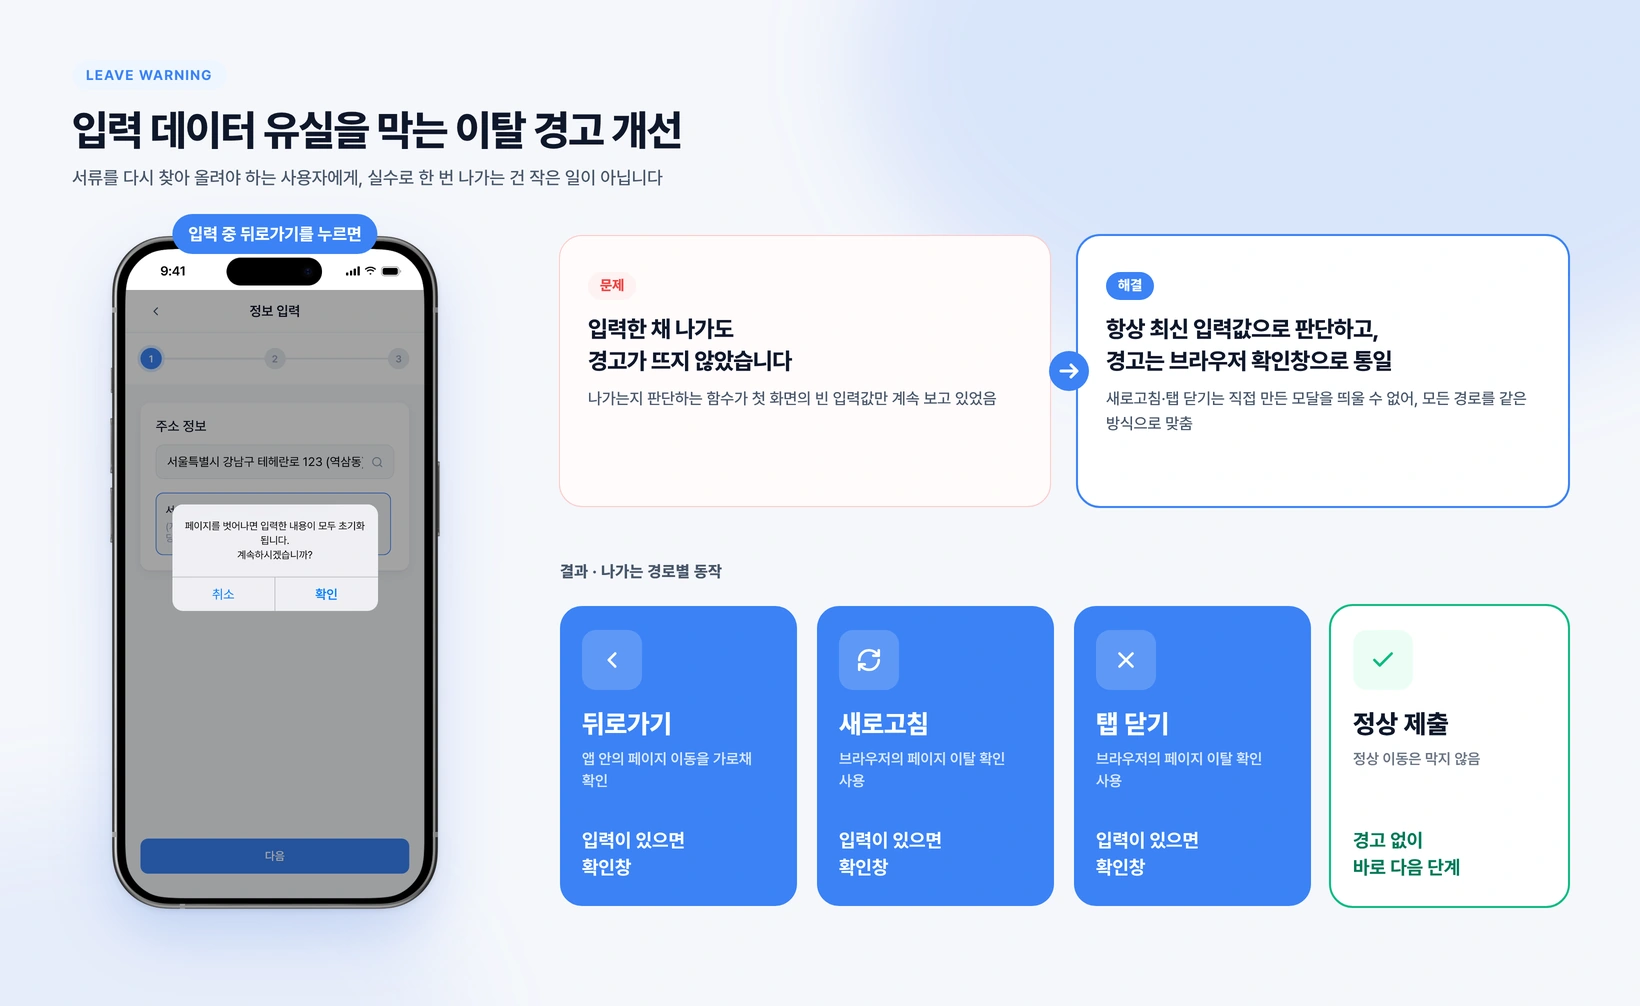
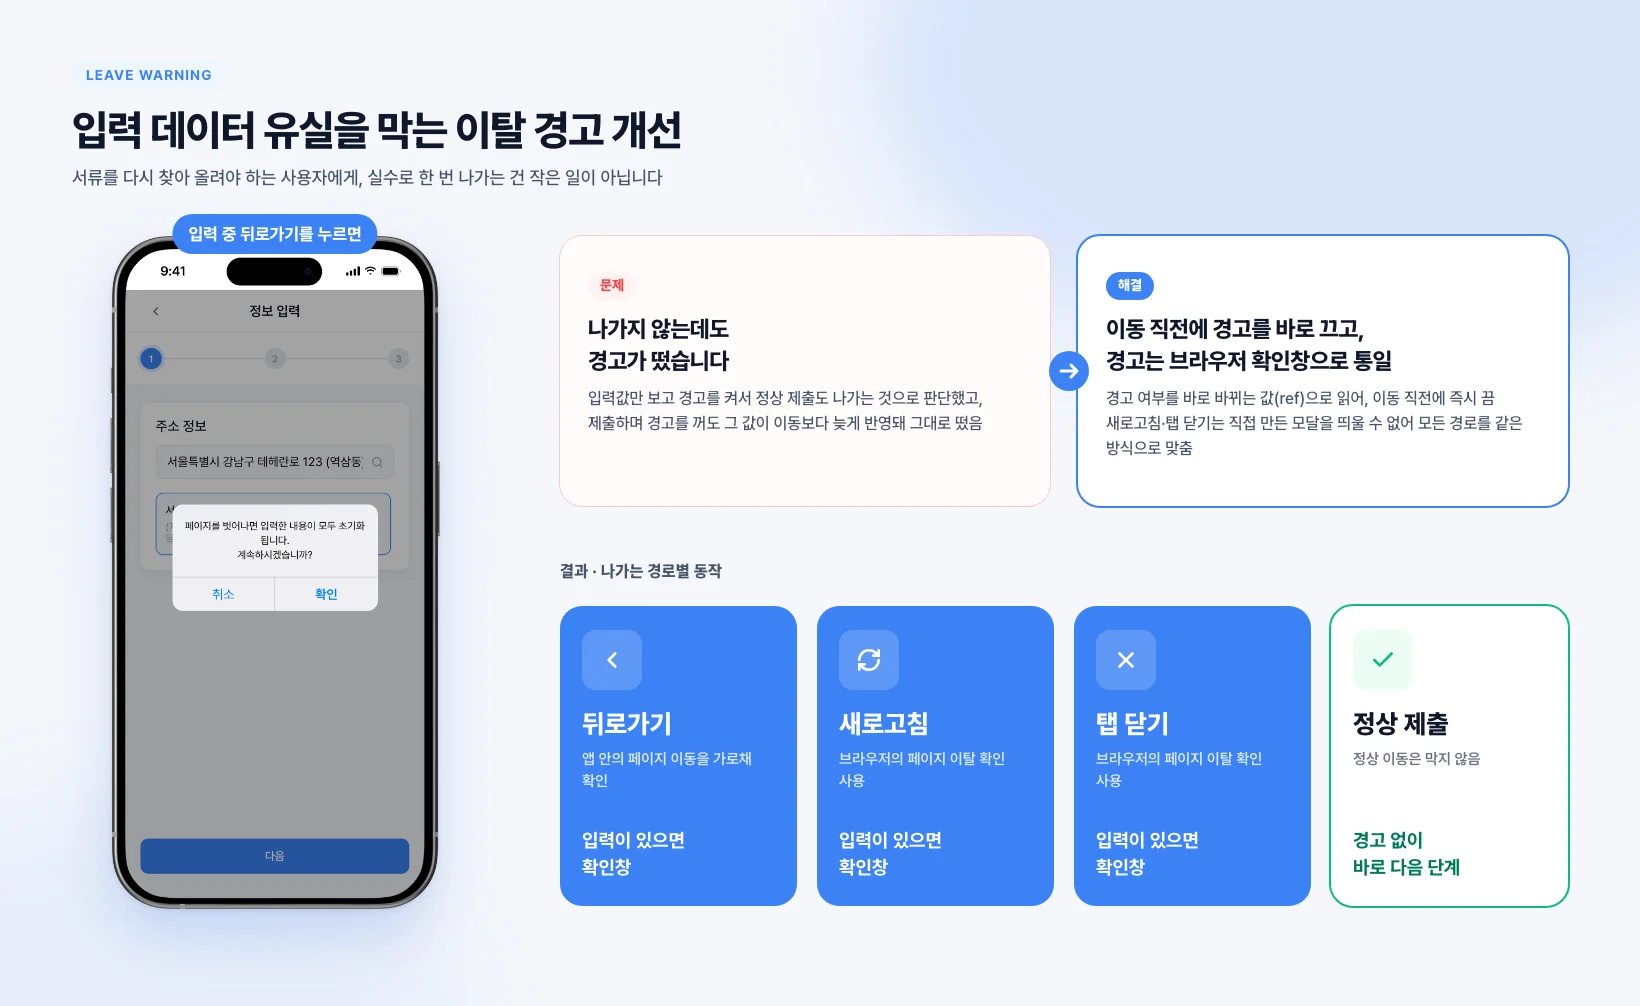
docs: 프로젝트 서술과 이미지를 실제 커밋·재현 결과 기준으로 정정
* 이탈 경고를 정상 제출까지 막던 문제와 state 반영 전 이동(stale closure), ref 해결로 다시 서술
* z-index 중복 요청 원인을 포커스 버블링으로 바로잡고, 첫 수정의 터미널 입력 회귀와 보완 과정 추가
* 지켜줘홈즈 CI 단계, Web OS 테마 이름, 테스트 예시 문구를 레포 기준으로 수정
* exit·zindex·test 이미지 속 설명 문구를 같은 기준으로 교체

diff --git a/content/projects.ts b/content/projects.ts
@@ -57,14 +57,15 @@ export const projects: Project[] = [
         },
         {
           index: 2,
-          title: '나가도 아무 말 없던 페이지',
+          title: '나가지 않는데도 뜨던 경고',
           blocks: [
-            { label: '발견', text: 'E2E 테스트를 쓰다가, 내용을 입력한 채 페이지를 나가도 "작성 내용이 사라진다"는 경고가 뜨지 않는 걸 발견했습니다.' },
-            { label: '원인', text: '이탈을 판단하는 콜백이 첫 렌더링 때의 빈 입력값(초기값)을 계속 참조하고 있었습니다(stale closure). 그래서 값이 바뀌어도 계속 "입력 없음"으로 판단했습니다.' },
-            { label: '판단', text: 'ref로 최신 입력 상태를 동기화해, 콜백이 항상 최신 값을 참조하도록 고쳤습니다. 경고는 처음에 직접 만든 모달로 띄우려 했지만, 새로고침과 탭 닫기는 브라우저 정책상 직접 만든 모달을 띄울 수 없었습니다. 경로마다 직접 만든 모달과 브라우저 창이 섞여 뜨는 것보다 일관된 게 낫다고 보고, 뒤로가기(useBlocker)까지 모든 이탈 경로를 브라우저 기본 확인창 계열로 맞췄습니다.' },
+            { label: '발견', text: 'E2E 테스트를 쓰다가, "작성 내용이 사라진다"는 이탈 경고가 정상 제출(분석 시작)할 때도 떠서 흐름을 막는 걸 발견했습니다. 주소로 바로 들어온 경우에는 이전 버튼을 누르면 앱의 경고 대신 브라우저의 "사이트에서 나가시겠습니까?" 창이 떴습니다.' },
+            { label: '원인', text: '처음 구현은 입력값만 보고 경고를 켰기 때문에 정상 제출도 이탈로 판단했습니다. 그래서 제출 버튼을 누르면 state를 바꿔 경고를 끄도록 고쳤지만, state는 다음 렌더에서야 반영돼 이동하는 순간 경고 여부를 판단하는 함수는 이전 렌더에서 만든 것이라 "경고 켜짐" 값을 그대로 들고 있었습니다(stale closure). 이전 버튼은 navigate(-1)이라, 주소로 바로 들어오면 앱 밖으로 나가며 브라우저 경고가 떴습니다.' },
+            { label: '해결', text: '경고 여부를 판단할 때 state 대신 ref를 읽게 하고, 정상 이동 직전에 ref를 바로 false로 바꿔 렌더를 기다리지 않고 경고를 끄도록 했습니다. 이전 버튼은 이동할 경로를 직접 지정해, 어디서 들어왔든 같은 앱 경고가 뜨게 했습니다.' },
+            { label: '판단', text: '경고는 처음에 직접 만든 모달로 띄울 수도 있었지만, 새로고침과 탭 닫기는 브라우저 정책상 직접 만든 모달을 띄울 수 없었습니다. 경로마다 직접 만든 모달과 브라우저 창이 섞여 뜨는 것보다 일관된 게 낫다고 보고, 뒤로가기(useBlocker)까지 모든 이탈 경로를 브라우저 기본 확인창 계열로 맞췄습니다.' },
             { label: '결과', text: '뒤로가기·새로고침·탭 닫기 세 경로 모두 입력이 있을 때만 경고하고, 정상 제출할 때는 뜨지 않는 것까지 테스트로 확인했습니다.' },
           ],
-          image: [{ src: '/images/projects/jikyeojwo-homes/exit.webp', alt: '뒤로가기, 새로고침, 탭 닫기 등 이탈 경로마다 입력 내용이 있을 때만 경고창이 뜨는 동작', width: 1640, height: 1006 }],
+          image: [{ src: '/images/projects/jikyeojwo-homes/exit.webp', alt: '정상 제출에도 뜨던 이탈 경고를 고쳐, 뒤로가기·새로고침·탭 닫기는 입력이 있을 때만 경고하고 정상 제출은 막지 않게 바뀐 동작', width: 1640, height: 1006 }],
           callout: '서류를 다시 찾아 올려야 하는 사용자에게, 실수로 한 번 나가는 건 작은 일이 아닙니다.',
         },
         {
@@ -83,7 +84,7 @@ export const projects: Project[] = [
           title: '사용자 밖의 흐름: 팀의 배포',
           blocks: [
             { label: '문제', text: '세 명이 한 저장소에 계속 머지하는 구조라, 검증 없이 머지하면 타입 오류나 린트 문제가 main에 그대로 들어갈 수 있었습니다. 배포를 손으로 하면 빠뜨리거나 잘못된 브랜치를 올릴 위험도 있었습니다. 배포 플랫폼으로 먼저 검토한 Vercel은 조직 저장소에서 유료 플랜 없이 쓸 수 없었습니다.' },
-            { label: '판단', text: '개발을 시작하면서 PR 검증과 배포 워크플로를 나눠 만들었습니다. PR에서는 타입 체크·린트·단위 테스트를 돌리고, 이를 통과해야만 머지되도록 막았습니다. 배포는 S3 + CloudFront로 직접 구성했습니다.' },
+            { label: '판단', text: '개발을 시작하면서 PR 검증과 배포 워크플로를 나눠 만들었습니다. PR에서는 린트·포맷 검사·타입 체크와 빌드를 돌리고, 이를 통과해야만 머지되도록 막았습니다. 배포는 S3 + CloudFront로 직접 구성했습니다.' },
             { label: '결과', text: ['프로젝트 기간 동안 ', { strong: 'CI 152회 중 21회' }, '를 머지 전에 막았습니다. main에 머지하면 빌드, S3 업로드, CloudFront 캐시 무효화까지 자동으로 이어집니다.'] },
           ],
           image: [{ src: '/images/projects/jikyeojwo-homes/cicd.webp', alt: 'PR 검증(ESLint·Prettier·타입체크)을 통과해야 머지되고, 머지 시 빌드·S3 업로드·CloudFront 캐시 무효화까지 자동으로 이어지는 CI/CD 파이프라인', width: 1640, height: 1006 }],
@@ -276,7 +277,7 @@ export const projects: Project[] = [
           title: '제어판에서 바꾸면 바로 바뀌는 테마',
           paragraphs: [
             '제어판에서 테마를 바꾸면 앱 전체 색이 즉시 바뀌어야 했습니다.',
-            '사용자 스토어의 테마 상태가 바뀌면 새 테마 객체를 앱 최상단에 주입하는 구조를 만들고, 컴포넌트에 직접 적혀 있던 색상을 모두 테마 값 참조로 바꿨습니다. 기본·다크·카카오 3종 테마를 제어판 설정과 연결했고, 이후에 만드는 컴포넌트도 따로 신경 쓰지 않아도 테마가 자동으로 적용됩니다.',
+            '사용자 스토어의 테마 상태가 바뀌면 새 테마 객체를 앱 최상단에 주입하는 구조를 만들고, 컴포넌트에 직접 적혀 있던 색상을 모두 테마 값 참조로 바꿨습니다. 카카오·네이버·토스 3종 테마를 제어판 설정과 연결했고, 이후에 만드는 컴포넌트도 따로 신경 쓰지 않아도 테마가 자동으로 적용됩니다.',
           ],
           image: [{ src: '/images/projects/web-os-emulator/theme.webp', alt: '제어판에서 카카오·네이버·토스 3종 테마를 선택하면 앱 전체 색상이 즉시 바뀌는 화면', width: 1640, height: 1006 }],
         },
@@ -298,10 +299,11 @@ export const projects: Project[] = [
           title: '한 번 눌렀는데 두 칸 올라가던 창',
           blocks: [
             { label: '발견', text: '본격적인 리팩토링 전에 기존 기능이 의도대로 동작하는지 개발자 도구로 소켓 이벤트 흐름을 확인했습니다. 그 과정에서 창을 한 번 클릭했는데 포커스 요청 이벤트가 두 번 발생하는 걸 발견했습니다.' },
-            { label: '원인', text: '서버는 포커스 요청을 받을 때마다 창의 z-index를 1씩 올리는 구조였습니다. 그런데 포커스 처리 함수 안에서 같은 요청을 한 번 더 보내는 콜백이 다시 호출되고 있었습니다. 겉으로는 정상처럼 보였지만, 창을 한 번 클릭할 때마다 z-index가 2씩 올라가는 숨은 버그였습니다.' },
-            { label: '결과', text: ['중복 호출을 지워 클릭 한 번에 요청이 한 번만 가도록 고쳤고, z-index는 ', { strong: '1씩만' }, ' 오르게 됐습니다. 창을 여러 개 쓸 때도 포커스 순서가 의도대로 유지됩니다.'] },
+            { label: '원인', text: '서버는 포커스 요청을 받을 때마다 창의 z-index를 1씩 올리는 구조였습니다. 창을 누르면 창에 포커스가 가서 요청이 한 번 나가는데, 터미널 창은 그 순간 안쪽 입력창으로 포커스를 옮깁니다. React의 onFocus는 자식에서 일어난 포커스도 부모로 올라오기 때문에(버블링), 이 포커스가 창의 onFocus를 한 번 더 실행해 요청이 두 번 나가고 있었습니다. 겉으로는 정상처럼 보였지만, 창을 한 번 클릭할 때마다 z-index가 2씩 올라가는 숨은 버그였습니다.' },
+            { label: '해결', text: '처음에는 부모 콜백 호출을 지워 중복을 막았는데, 그러자 터미널 창이 입력창으로 포커스를 옮기지 못해 글자를 입력할 수 없게 됐습니다. 팀원과 함께 다시 보고, 창 자체에 포커스가 왔을 때만 요청을 보내고 부모 콜백은 그대로 부르도록 고쳤습니다.' },
+            { label: '결과', text: ['클릭 한 번에 요청이 한 번만 가 z-index는 ', { strong: '1씩만' }, ' 오르고, 터미널 입력도 그대로 동작합니다. 창을 여러 개 쓸 때도 포커스 순서가 의도대로 유지됩니다.'] },
           ],
-          image: [{ src: '/images/projects/web-os-emulator/zindex.webp', alt: '창을 한 번 클릭할 때 포커스 요청이 중복 호출되어 z-index가 2씩 오르던 버그를 수정해 1씩만 오르게 바뀐 전후 비교', width: 1640, height: 1006 }],
+          image: [{ src: '/images/projects/web-os-emulator/zindex.webp', alt: '창을 한 번 클릭할 때 포커스가 버블링되어 요청이 두 번 나가 z-index가 2씩 오르던 버그를 고쳐 1씩만 오르게 바뀐 전후 비교', width: 1640, height: 1006 }],
           callout: '겉으로는 정상이었지만, 이벤트 흐름을 직접 따라가 보니 보였습니다.',
         },
         {
